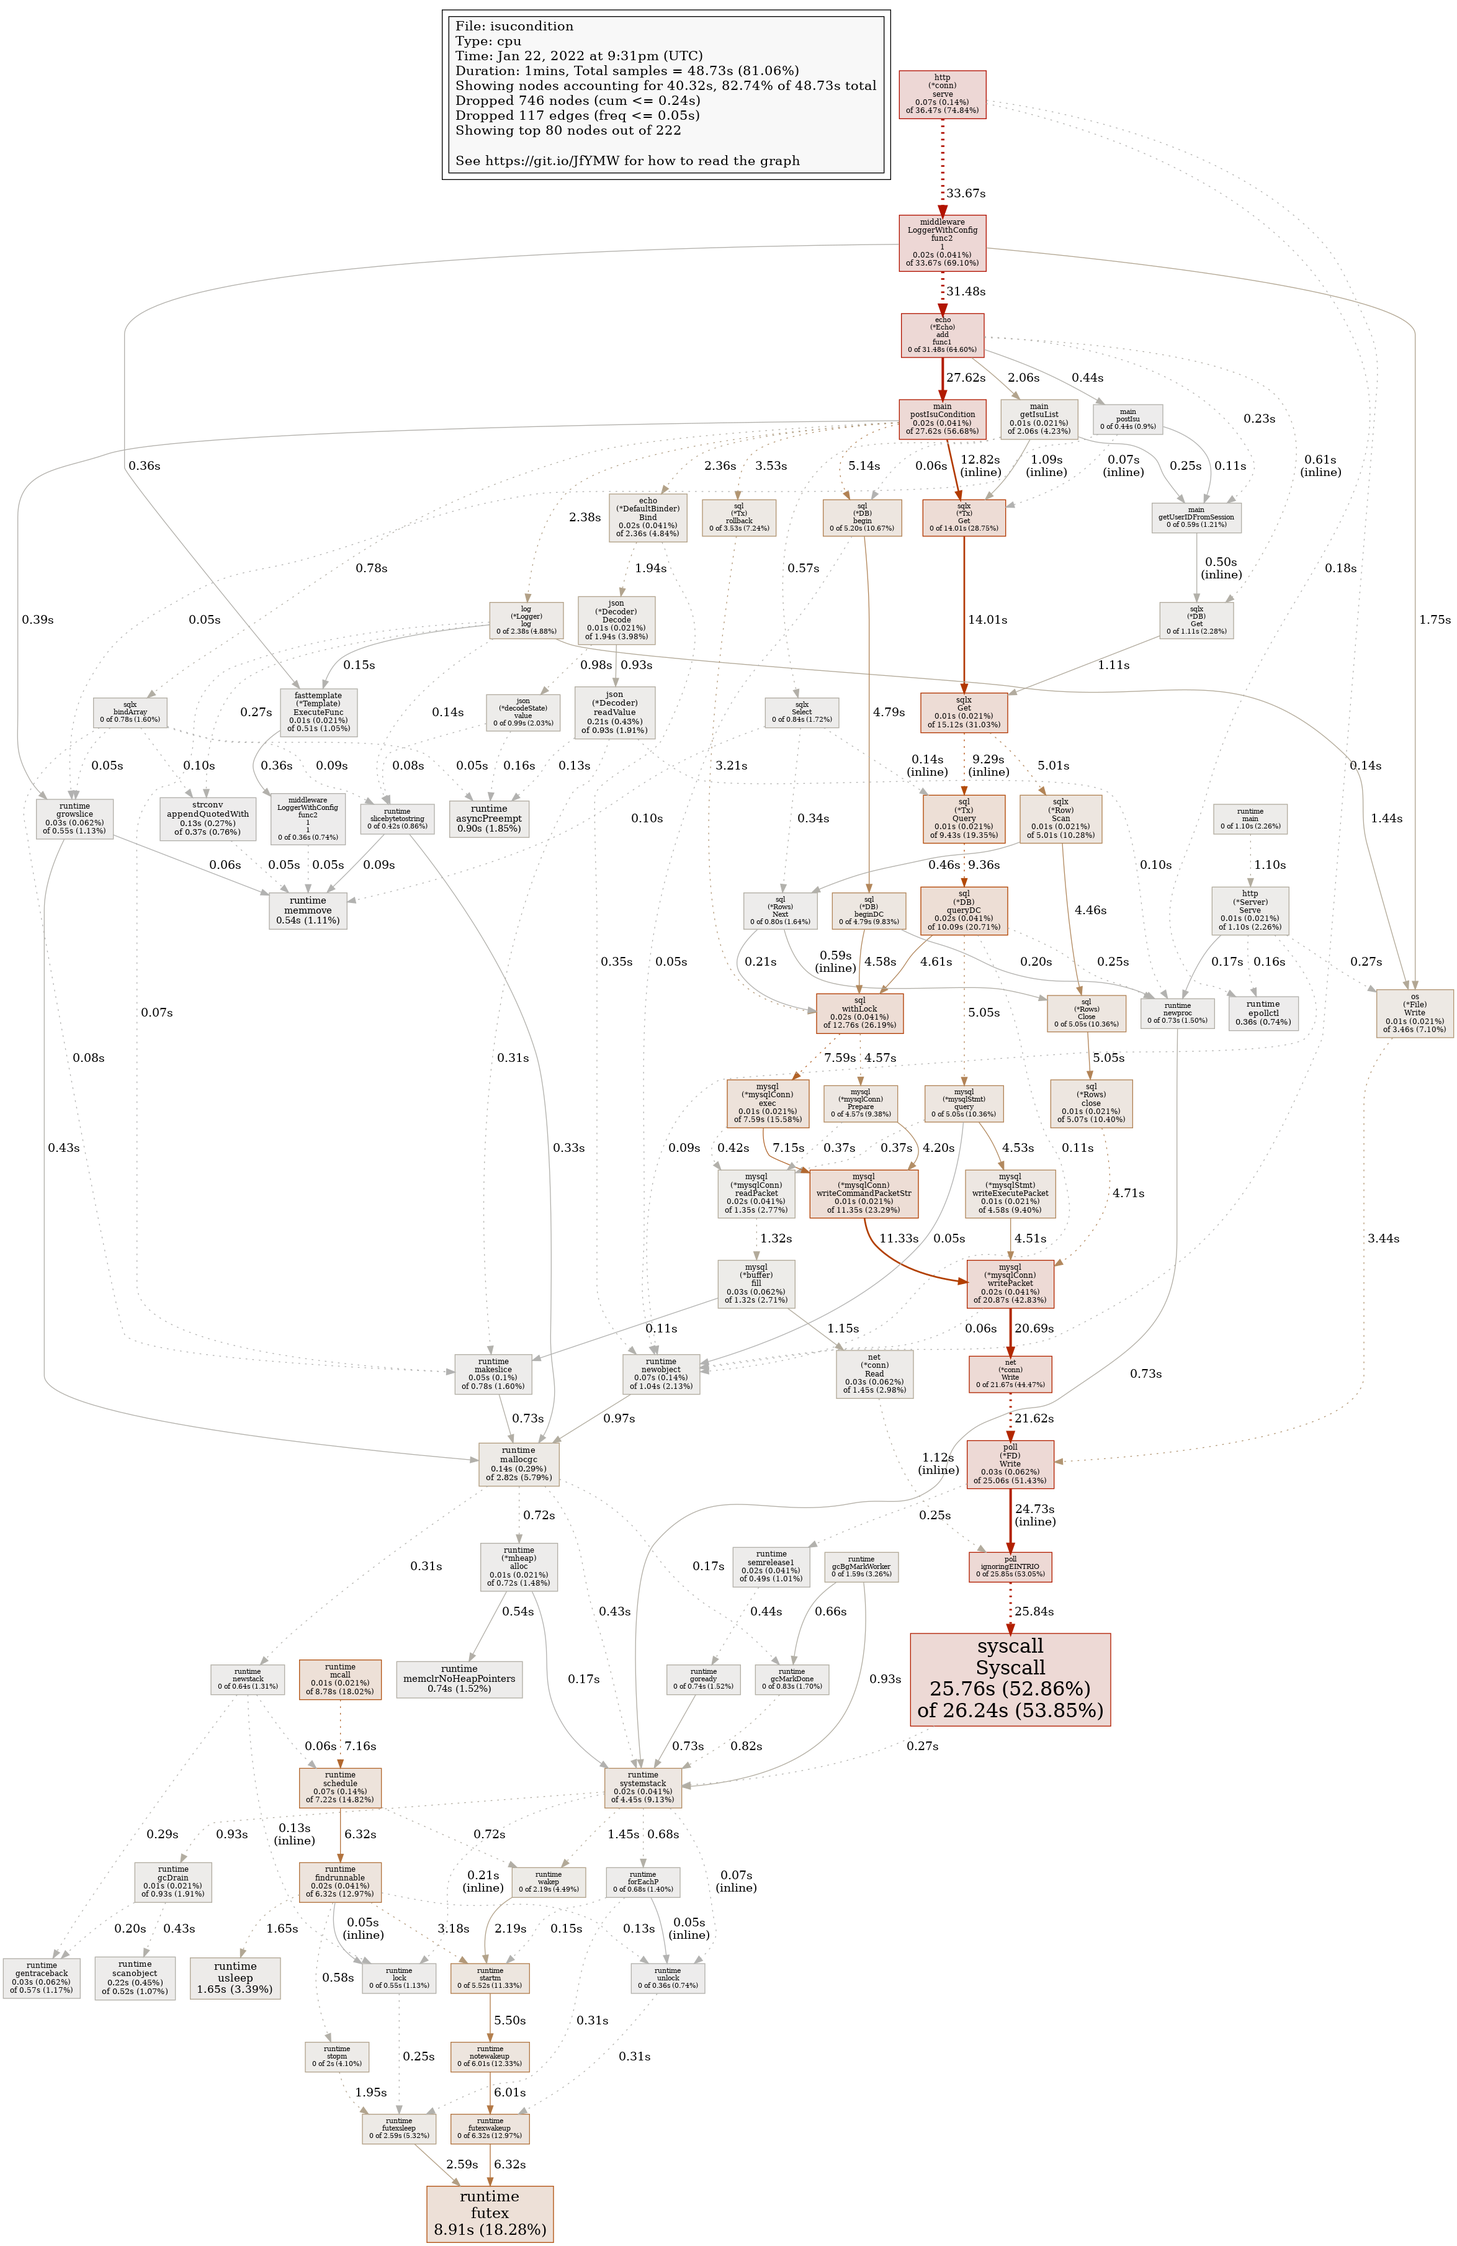
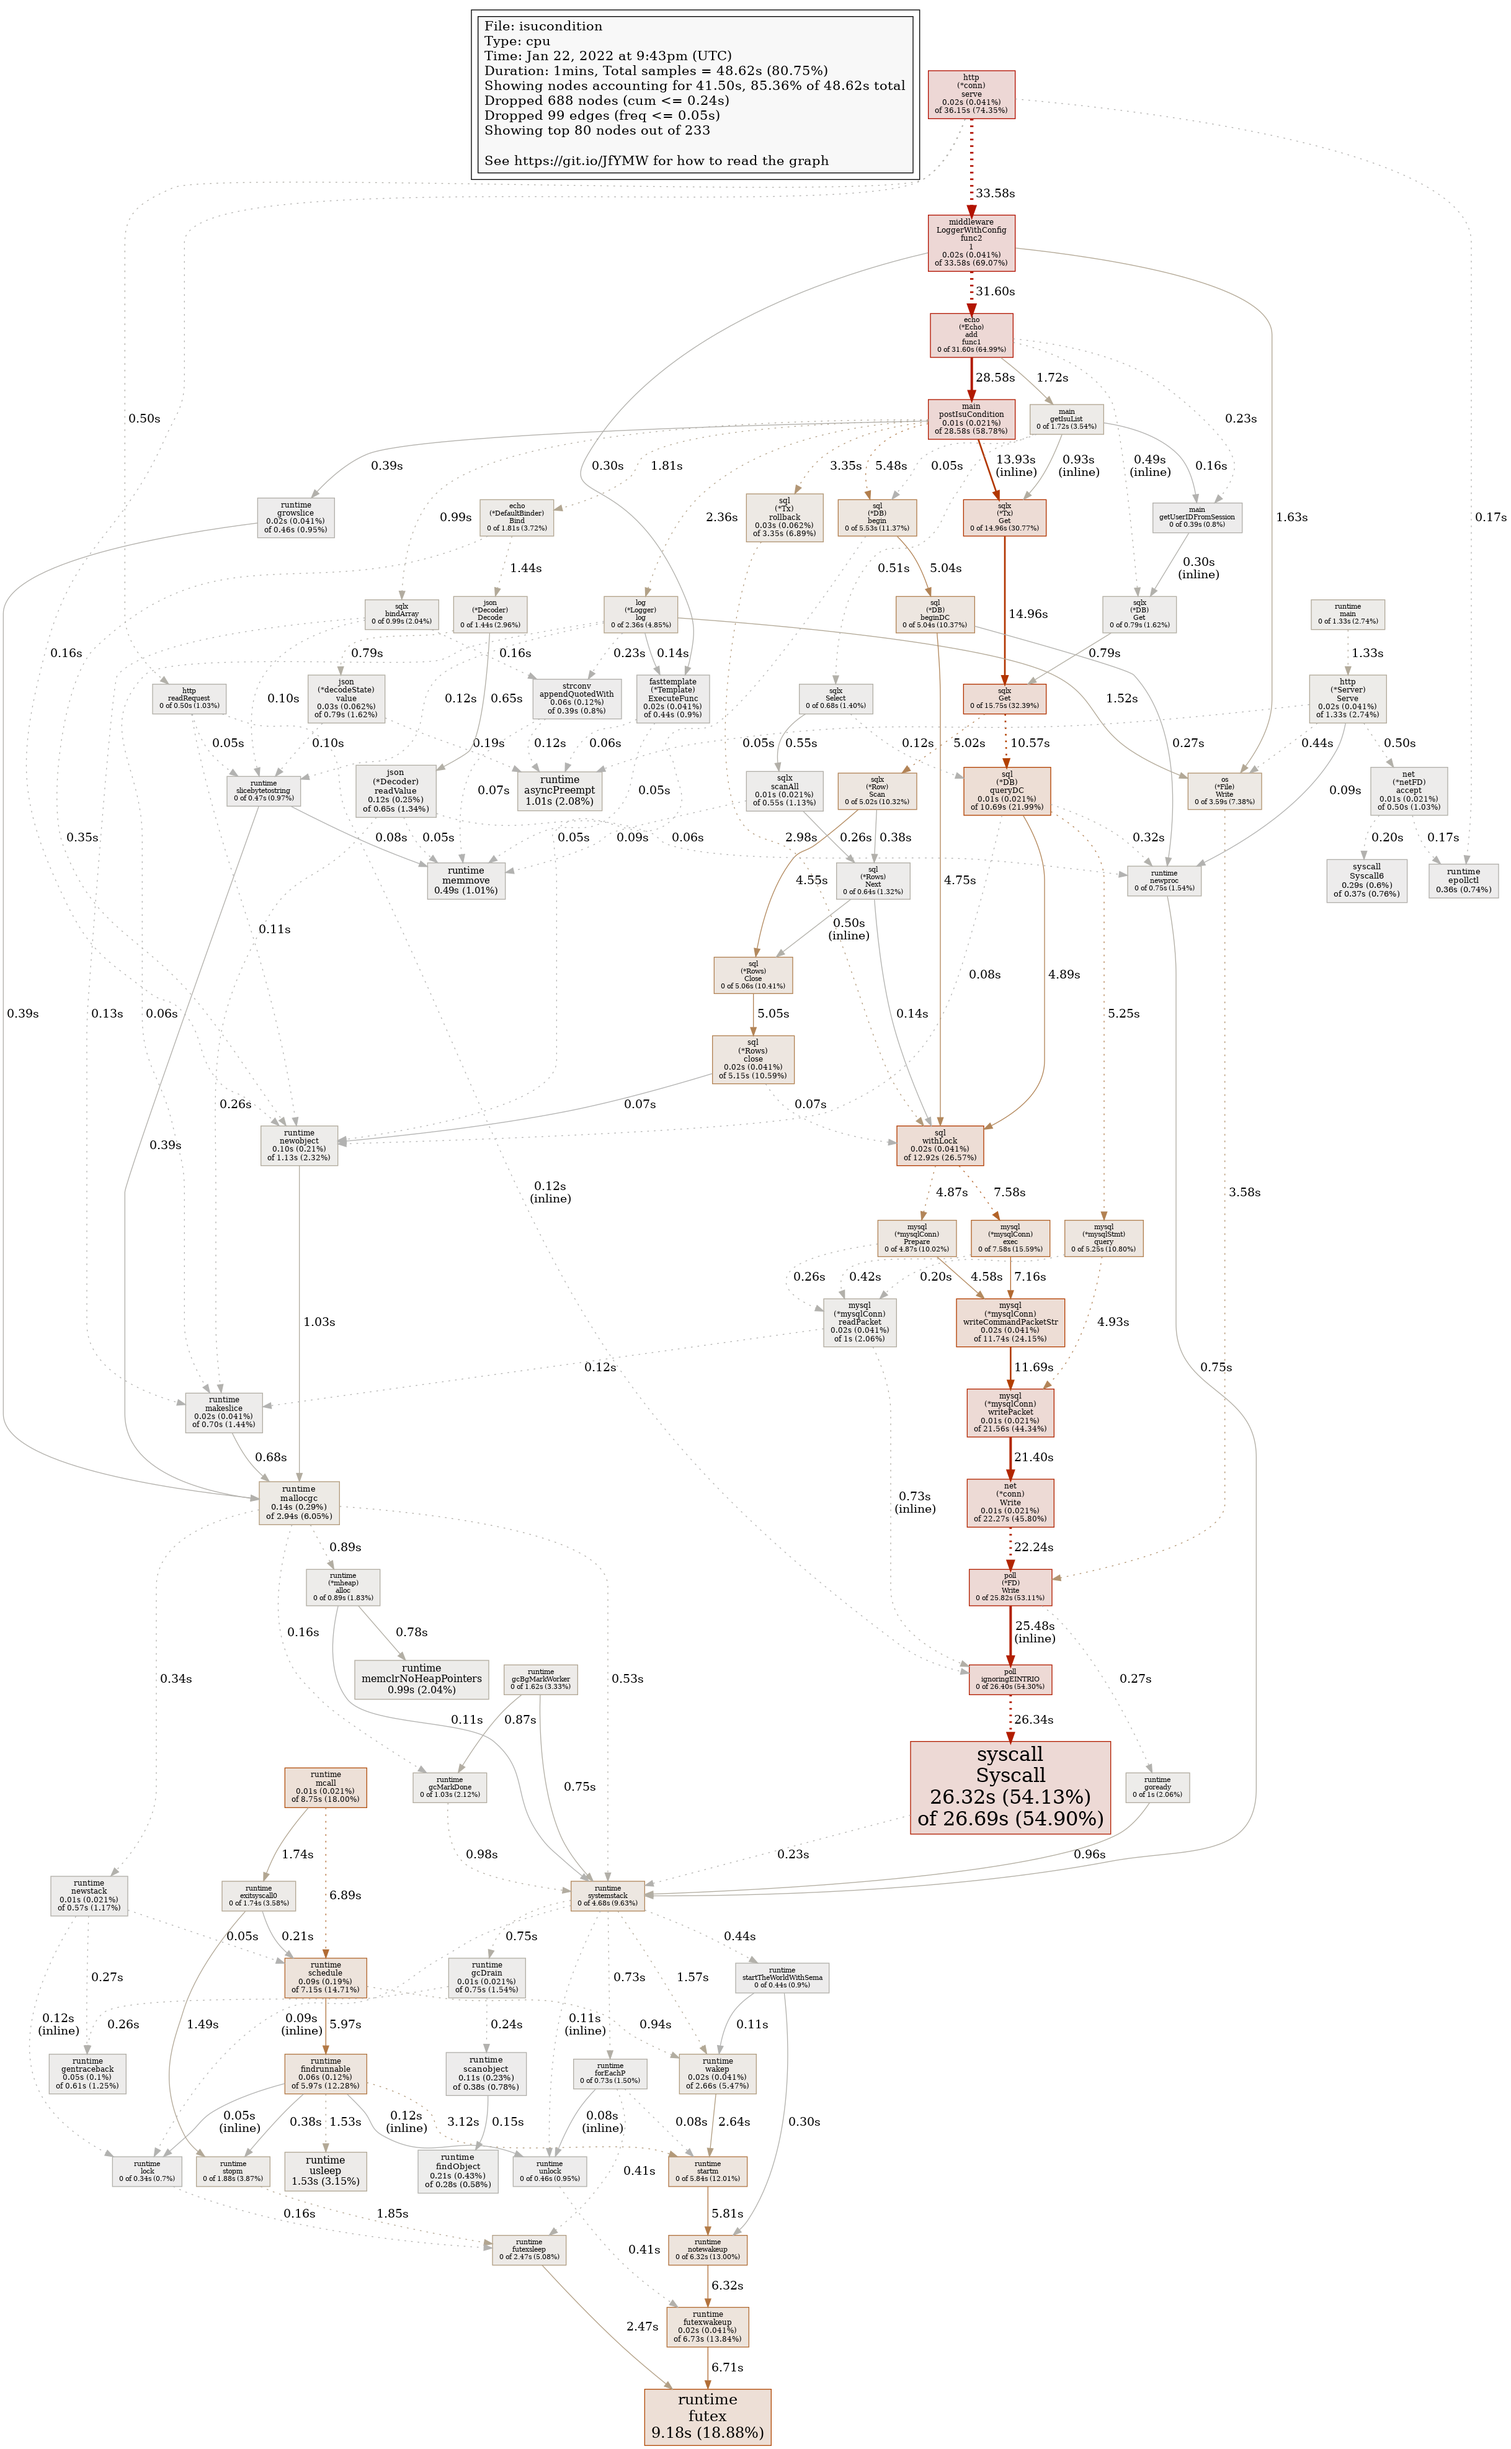
stop log

diff --git a/go/main.go b/go/main.go
@@ -208,10 +208,7 @@ func main() {
 	}()
 
 	e := echo.New()
-	e.Debug = true
-	e.Logger.SetLevel(log.DEBUG)
 
-	e.Use(middleware.Logger())
 	e.Use(middleware.Recover())
 
 	e.POST("/initialize", postInitialize)
